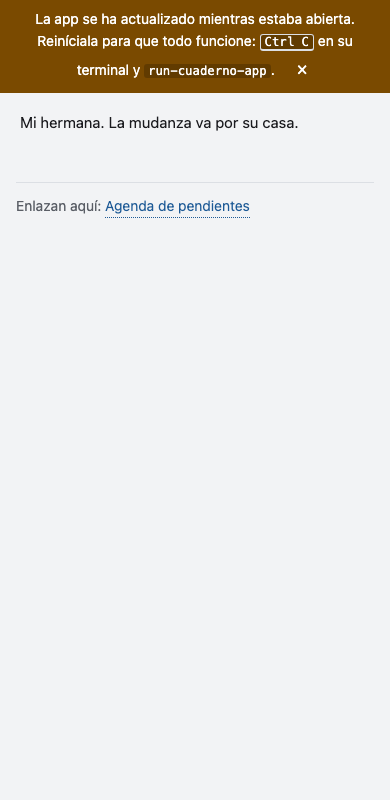
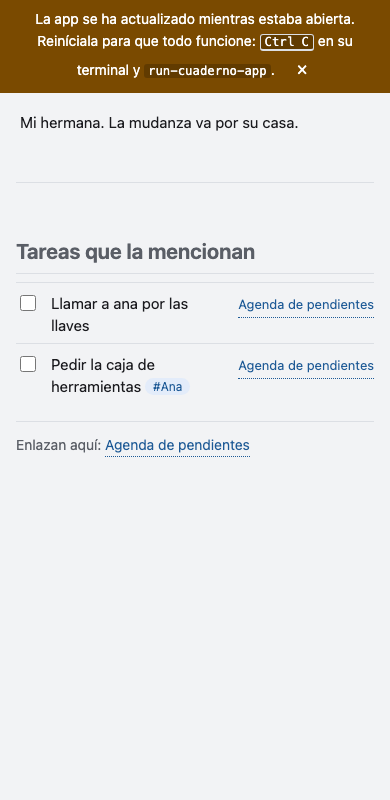
docs: crítica de diseño de la tanda «feedback de uso» (aviso, árbol, ficheros ajenos, menciones) con capturas del después

diff --git a/docs/diseno/critica-2026-10-09-feedback-uso.md b/docs/diseno/critica-2026-10-09-feedback-uso.md
@@ -1,0 +1,42 @@
+# cuaderno-app · crítica de diseño, tanda «feedback de uso», 2026-10-09
+
+**Alcance:** (1) aviso fijo «La app se ha actualizado…» con ×; (2) árbol por nombre de fichero, «Vacía» y todos los ficheros; (3) páginas de fichero que la app no enseña (`adjuntos/presupuesto.xlsx`) y de audio (`adjuntos/nota-de-voz.wav`); (4) «Tareas que la mencionan». Tema claro y oscuro a 1280×800 y una a 390 px, con el aviso forzado (`hidden=false`). Método: `design-critique` (impresión, usabilidad, jerarquía, consistencia, accesibilidad) con medidas hechas en el navegador sobre `public/estilo.css:59-63`, `:204-208`, `:336`. Capturas: `docs/capturas/despues-feedback-uso-2026-10-09-*.png`. Usuario final: alumno no técnico.
+
+## Objeciones (por gravedad)
+
+**1. Accesibilidad · en tema oscuro el aviso es casi ilegible: texto blanco sobre ámbar, 2,26:1.**
+Se ve: `despues-feedback-uso-2026-10-09-nota-menciones-oscuro.png`. `#aviso-reinicio` usa `background: var(--aviso)` y `color: #fff` fijo (`estilo.css:60`); en oscuro `--aviso` es `#e0a040`. Medido: claro 7,48:1 (bien), oscuro 2,26:1 (mínimo 4,5). Además es el único aviso que dice que la app puede dejar de funcionar.
+Escenario: el alumno con tema oscuro lee «Reiníciala para que todo funcione» con esfuerzo y se salta el `Ctrl C` / `run-cuaderno-app`, que son lo accionable.
+Arreglo mínimo: `color: var(--sobre-acento)` (en oscuro `#141518` sobre `#e0a040`, ~8:1; en claro sigue siendo blanco) y los fondos de `code`/`kbd` con `color-mix` o `rgba` según tema.
+
+**2. Usabilidad · el aviso tapa la cabecera de la app en lugar de empujarla, y a 390 px se come 93 px.**
+Se ve: `…-nota-menciones-claro.png` y `…-nota-menciones-movil.png`. `position: fixed; top: 0` (`:60`) cubre 48 px: en 1280 oculta la marca/nombre del cuaderno y la miga (`#miga`), y deja el título «Ana» pegado al borde del aviso; a 390 px son 93 px (el 12 % de la pantalla) con tres líneas y el × colgando al final de la última.
+Escenario: mientras el aviso está (y solo se va si se pulsa ×), el alumno no ve en qué nota está ni el botón de menú; al cerrarlo, todo salta.
+Arreglo mínimo: que ocupe sitio (`position: sticky; top: 0` dentro del flujo, o `padding-top` del `body` con la altura del aviso) y el × `position: absolute; right: 8px` para que el texto no lo arrastre.
+
+**3. Consistencia · «Tareas que la mencionan» sale con el estilo de un título de sección, no con el que `.menciones` declara.**
+Se ve: `…-nota-menciones-claro.png` / `…-brief-menciones-claro.png`. `.menciones h2` pide 14 px, gris suave y sin borde (`:205`), pero `#nota h2` (`:149`, con id) gana: medido, 21 px, borde inferior y 40 px de margen. Resultado: dos filas bajo la línea de «Enlazan aquí» (la `border-top` de la sección y el borde del h2) y un encabezado más grande que el contenido de las tareas (15 px); la sección secundaria pesa más que el cuerpo de la nota («Mi hermana…», una línea).
+Escenario: en una nota corta, lo más llamativo de la pantalla es la lista de tareas de otras notas, no la nota.
+Arreglo mínimo: subir especificidad (`#nota .menciones h2`) para que valgan sus 14 px y el `border: 0`, y quitar el margen de 40 px.
+
+**4. Accesibilidad · el × mide 23×32 px: por debajo de 24 de ancho, con un glifo de 18 px.**
+Se ve: cualquier captura, esquina derecha del aviso. `#aviso-cerrar` (`:61`): `padding: 0 6px`, sin ancho mínimo. Medido: 22,9×32 px. Con el hover (fondo `rgba(0,0,0,.2)`) queda un rectángulo estrecho y alto.
+Escenario: en táctil o con trackpad impreciso se falla el × y se pulsa el `code` de al lado (inerte), sin saber si se ha cerrado.
+Arreglo mínimo: `min-width: 32px; min-height: 32px` y `border-radius: 50%`, que de paso da el hover redondo.
+
+**5. Consistencia · «Vacía» tiene poco contraste (≈3:1) y está 4 px a la izquierda de sus hermanos; y una carpeta vacía plegada no se distingue de una con contenido.**
+Se ve: `…-arbol-claro.png`. `.carpeta-vacia` usa `var(--tenue, #888)` (`:336`): `--tenue` no existe, cae a `#888` sobre `#eaecef`, ~3:1 con 13 px (mínimo 4,5), y empieza en x = 46 px mientras los ficheros de esa carpeta empiezan en 50. Plegada (`adjuntos/vacia`), tiene el mismo chevron que cualquier otra.
+Escenario: el alumno abre «vacia» esperando algo y solo entonces lee «Vacía» en un gris que apenas se ve.
+Arreglo mínimo: `color: var(--tinta-suave)` (5,9:1) y `margin-left: 26px`; opcional, atenuar el nombre de la carpeta vacía plegada.
+
+## Lo que está bien y no se toca
+- La página de fichero desconocido (`…-xlsx-claro.png`): título, una frase que dice qué pasa y un botón «Mostrar en el Finder» de 185×38 px, único y claro. La de audio (`…-audio-claro.png`) pone el reproductor nativo bajo el título sin más, sin competir.
+- El árbol con nombres reales y sin `.md`: `presupuesto.xlsx` y `nota-de-voz.wav` se reconocen a la primera.
+- Las menciones: casilla, texto y origen a la derecha (`Agenda de pendientes`) con filas de ~43 px; a 390 px el origen no se rompe y no hay scroll horizontal (`scrollWidth` 390).
+- Alineación del aviso con la columna: centrado a pantalla completa, sin competir con el contenido a 1280.
+
+## Veredicto
+**Atender antes del commit: la 1** (contraste, una línea de CSS) **y la 3** (especificidad; bug visible en la primera nota con menciones). **La 2, la 4 y la 5** son pequeñas y entran en esta tanda si cuestan poco; si no, al Inbox sin bloquear. La 2 es la que más cambia la sensación de uso.
+
+## Qué se hizo con cada objeción
+TODO: se rellena al atenderlas o razonarlas.
